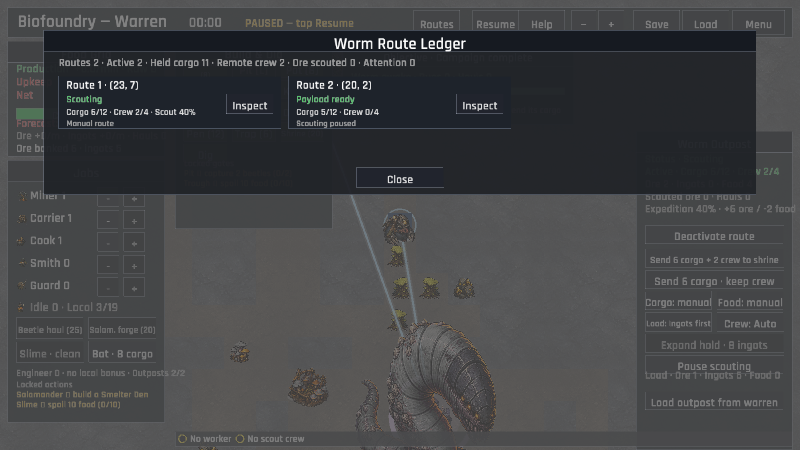
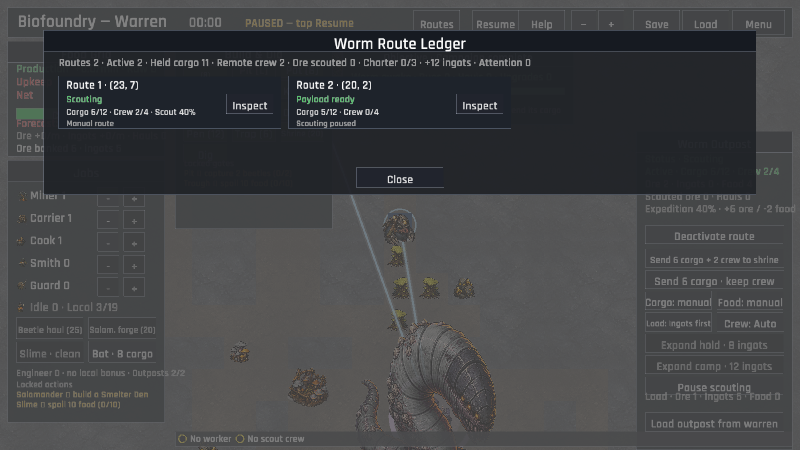
The route ledger keeps the Charter in sight while scouts plan (Endless route ledger context)
The multi-route ledger hid the completed-campaign Objective, leaving players without the Worm Road Charter target while they planned remote logistics. Its network summary now derives the same capped haul count and reward from session state, reports Charter complete after the one-time claim, and the field guide names the planning context in compact copy.

Refreshed the 800x450 ledger and Field Guide captures, added claimed-state coverage, hardened aggregate haul summation against overflow, and republished the Windows and WebGL Preview packages. The verification record retains the route-ledger evidence and the Charter context.

Changed region(s): [[0.8125, 0.8089, 0.9688, 0.9022], [0.4375, 0.1244, 0.6562, 0.1556], [0.8125, 0.9333, 0.9688, 0.9644]]

diff --git a/src/ui/hud/overlays.rs b/src/ui/hud/overlays.rs
@@ -14,7 +14,7 @@ use macroquad_toolkit::ui::draw_ui_text_ex;
 const INSPECT_HELP_BODY: &str =
     "Tap a building on the map to see its status and controls. Tap an equipment button in the Blacksmith card to queue it; after onboarding, Breeding Pit buttons show specialist benefits. At an awakened Outpost, tap Load order for cargo priority, Crew per run for cargo-only or scout counts, then Load to send food and crew to scout for ore; pause scouting to protect provisions, use the cargo-only return to bring ore home while keeping scouts remote, turn on Auto-return · Cargo only for full holds, turn on Auto-resupply · Food only when remote scouts need provisions, expand the hold and camp with banked ingots, install a survey rig to increase ore per scout, then tune its resonance beacon to shorten survey cycles.";
 const OBJECTIVE_HELP_BODY: &str =
-    "Read the Objective card for the current campaign milestone and its next requirement. Locked gates name their exact unlock; after the worm wakes, tap Routes to scan every Outpost or inspect one to prepare cargo runs.";
+    "Read the Objective card for the current milestone. Locked gates name their exact unlock; after the worm wakes, tap Routes for every Outpost. The card tracks Charter hauls and reward.";
 const FIELD_GUIDE_INTRO: &str =
     "Everything below has a visible touch or pointer control. Review Recent events when a toast has faded; use Older or Newer to browse further.";
 const EVENTS_PER_PAGE: usize = 10;

diff --git a/src/ui/hud/routes.rs b/src/ui/hud/routes.rs
@@ -175,14 +175,31 @@ fn route_network_summary(session: &GameSession, data: &GameData) -> String {
         .iter()
         .filter(|outpost| route_needs_attention(outpost, data))
         .count();
+    let charter = charter_summary(session, data);
     format!(
-        "Routes {} · Active {} · Held cargo {} · Remote crew {} · Ore scouted {} · Attention {}",
+        "Routes {} · Active {} · Held cargo {} · Remote crew {} · Ore scouted {} · {} · Attention {}",
         session.outposts.len(),
         active,
         held_cargo,
         remote_crew,
         scouted_ore,
+        charter,
         attention
+    )
+}
+
+fn charter_summary(session: &GameSession, data: &GameData) -> String {
+    let goal = data.balance.outpost_charter_haul_goal;
+    if session.outpost_charter_claimed {
+        return "Charter complete".to_owned();
+    }
+    if goal == 0 {
+        return "Charter unavailable".to_owned();
+    }
+    let completed = crate::simulation::outposts::total_expeditions(session).min(goal);
+    format!(
+        "Charter {completed}/{goal} · +{} ingots",
+        data.balance.outpost_charter_reward_ingots
     )
 }
 

diff --git a/src/ui/hud/routes/tests.rs b/src/ui/hud/routes/tests.rs
@@ -28,8 +28,18 @@ fn route_network_summary_reports_the_whole_warren_network() {
 
     assert_eq!(
         route_network_summary(&session, &data),
-        "Routes 2 · Active 1 · Held cargo 5 · Remote crew 2 · Ore scouted 9 · Attention 2"
+        "Routes 2 · Active 1 · Held cargo 5 · Remote crew 2 · Ore scouted 9 · Charter 0/3 · +12 ingots · Attention 2"
     );
+}
+
+#[test]
+fn route_network_summary_confirms_a_claimed_charter() {
+    let data = GameData::load().expect("embedded game data");
+    let mut session = GameSession::new(&data, 42);
+    session.outpost_charter_claimed = true;
+    session.outposts.push(Outpost::new(TilePos::new(4, 4)));
+
+    assert!(route_network_summary(&session, &data).contains("Charter complete"));
 }
 
 #[test]

diff --git a/src/simulation/outposts.rs b/src/simulation/outposts.rs
@@ -120,11 +120,9 @@ pub fn expedition_cycle_sec(outpost: &Outpost, data: &GameData) -> f32 {
 
 /// Return the aggregate completed scouting hauls across all routes.
 pub fn total_expeditions(session: &GameSession) -> u32 {
-    session
-        .outposts
-        .iter()
-        .map(|outpost| outpost.expeditions_completed)
-        .sum()
+    session.outposts.iter().fold(0, |total, outpost| {
+        total.saturating_add(outpost.expeditions_completed)
+    })
 }
 
 /// Award the one-time Worm Road Charter when its haul target is met.

diff --git a/docs/phase-one/CANDIDATE_VERIFICATION.md b/docs/phase-one/CANDIDATE_VERIFICATION.md
@@ -56,7 +56,7 @@ automated simulation results into first-time-player evidence.
 | Engineer Mine slot accounting | Pass (focused and published build evidence) | The optional Engineer now uses the same live Mine-claim accounting as ordinary Miners, so it waits when every post is occupied and reserves a free slot before walking toward it. A stale over-capacity arrival is rejected instead of overbooking the Mine; focused simulation coverage verifies both branches. |
 | Multi-Outpost automatic scheduling | Pass (focused evidence) | Automatic returns and food-only resupplies share a persisted round-robin cursor, so a continuously needy first route cannot monopolize the single worm transit. The cursor advances only after a successful automatic departure and defaults safely for older saves; focused multi-route simulation and save-roundtrip coverage verifies that later eligible Outposts receive their turn. |
 | Multi-route ledger | Pass (published capture evidence) | The awakened HUD now exposes a visible Routes control that opens a modal Worm Route Ledger. Each route shows the same inspection status vocabulary, live `Scouting` state and percentage when active, cargo/hold and crew counts, policy state, and a touch-sized Inspect action into the existing Outpost card; selecting a route also centers the bounds-clamped map camera on it. The release [ui_endless_routes.png](../verification/ui_endless_routes.png) capture shows two routes together; the ledger pauses planning and keeps the Close action visible in the compact probe. |
-| Network route summary | Pass (published capture evidence) | The Worm Route Ledger now summarizes the whole network above its cards: total routes, active routes, held cargo, remote crew, scouted ore, and routes needing attention. The summary is derived from the same persisted route state as the cards, so scaling from one route to several does not require opening each card to understand the network. Refreshed [ui_endless_routes.png](../verification/ui_endless_routes.png) and the compact touch audit keep the summary and route controls readable. |
+| Network route summary | Pass (published capture evidence) | The Worm Route Ledger now summarizes the whole network above its cards: total routes, active routes, held cargo, remote crew, scouted ore, live Worm Road Charter progress/reward, and routes needing attention. The summary is derived from the same persisted route state as the cards, so scaling from one route to several does not require opening each card to understand the network. Refreshed [ui_endless_routes.png](../verification/ui_endless_routes.png) and the compact touch audit keep the summary and route controls readable. |
 | World-space worm route links | Pass (published capture evidence) | After awakening, the world now draws each shrine-to-Outpost link beneath the buildings, using a bright solid path for active routes and a subdued dashed path for inactive ones. An in-flight return shows a high-contrast pulse moving from the Outpost toward the shrine, while outbound travel reverses that direction. Refreshed [ui_endless.png](../verification/ui_endless.png), [ui_endless_in_flight.png](../verification/ui_endless_in_flight.png), and [ui_endless_arrived.png](../verification/ui_endless_arrived.png) captures show the network feedback without changing route state or save data. |
 | Settled touch-target audit | Pass (focused evidence) | Every enabled menu/HUD button now registers with the shared touch audit. The opt-in `scripts/audit_touch_targets.ps1` sweep settles each screen for neighbor-aware hit growth, reports the smallest target and drawn density, and fails on actual grown-target overlap. The 800×450 sweep passed for the title, settings, confirmation, core HUD, crafting, shrine, completion, Recent Events newest and older pages, Outpost, and multi-route ledger screens; modal occlusion keeps covered controls out of the report. |
 | State-aware awakened objective recovery | Pass (focused and capture evidence) | After the worm wakes, the Objective now names the visible recovery action when the forge chain is incomplete: place a Blacksmith, replace an exhausted Mine, staff a Smith, or staff a Carrier. The refreshed worm and completion captures show the first of these prompts, and focused coverage keeps the guidance honest for each recovery state. |
@@ -678,8 +678,9 @@ automated simulation results into first-time-player evidence.
   route cards, the network summary line, shared status labels, hold/crew counts,
   automatic-policy lines, and visible Inspect/Close targets. The summary gives
   the network totals for active routes, held cargo, remote crew, scouted ore,
-  and attention states before a card is opened. A compact 800×450 probe kept
-  the same controls on-canvas without overlap.
+  live Worm Road Charter progress/reward, and attention states before a card is
+  opened. A compact 800×450 probe kept the same controls on-canvas without
+  overlap.
 - World-space route capture — [ui_endless.png](../verification/ui_endless.png)
   shows the active shrine-to-Outpost link behind the awakened landmark, while
   [ui_endless_in_flight.png](../verification/ui_endless_in_flight.png) shows the
